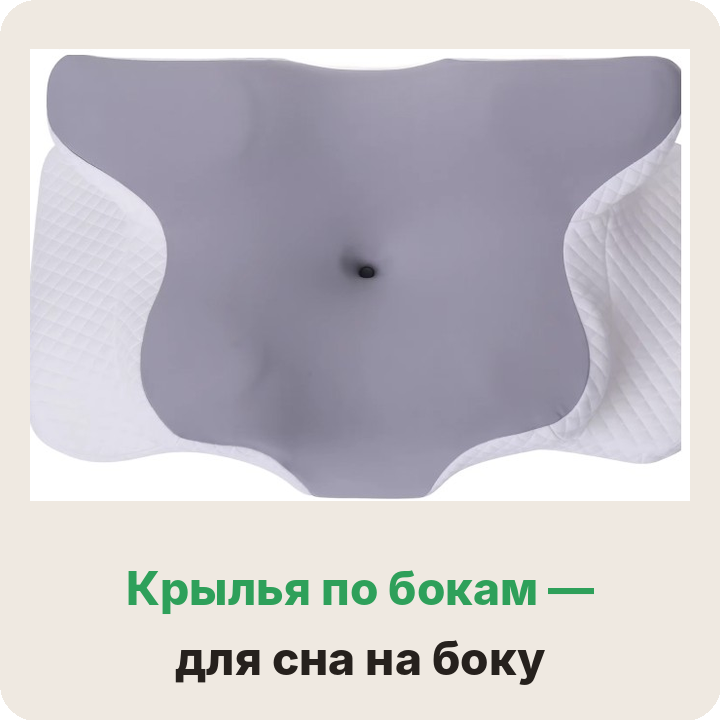
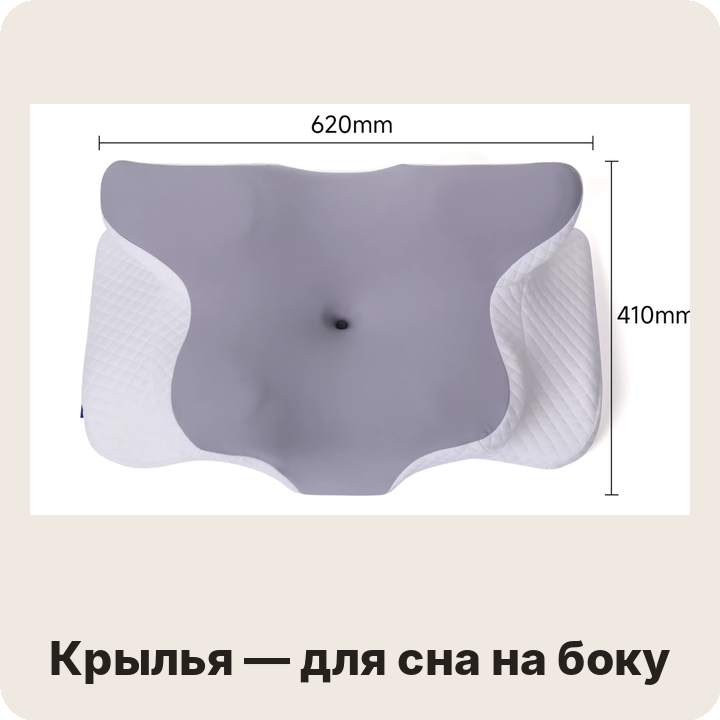
Reel greeks v3: original hook, single pose take, larger footage, cards from owner's pillow photos
Claude-Session: https://claude.ai/code/session_01JKBBHyD8hBKVpszWv2rPDb

diff --git a/brand/video/reel_greeks/build.py b/brand/video/reel_greeks/build.py
@@ -4,7 +4,7 @@ Layout: title + illustration on top, the horizontal footage in the middle, capti
 Audio: the owner's own voice, cleaned (rumble cut, denoise, compression, loudness);
 pauses inside phrases are cut and the whole reel runs at SPEED.
     python build.py RAW_DIR IMG_DIR OUT_DIR
-RAW_DIR holds v1..v5.mp4 (v5: the new hook take), IMG_DIR the illustrations named in EDL.
+RAW_DIR holds v1..v4.mp4, IMG_DIR the illustrations named in EDL.
 """
 import json
 import subprocess
@@ -12,8 +12,8 @@ import sys
 from pathlib import Path
 
 W, H = 1080, 1920
-VID_Y, VID_H = 1060, 602          # 832x464 source scaled to full width
-IMG_Y, IMG_SIZE = 300, 720
+VID_Y, VID_H = 700, 900           # the person is the main thing: 832x464 source scaled up, sides cropped
+IMG_Y, IMG_SIZE = 270, 400        # small product card between title and footage
 FONT = "/usr/share/fonts/opentype/inter/InterDisplay-Black.otf"
 CAP_FONT = "/usr/share/fonts/opentype/inter/Inter-ExtraBold.otf"
 BG = "0x16130f"
@@ -24,7 +24,7 @@ PAD, GAP = 0.12, 0.3  # keep this much around speech; pauses longer than GAP are
 # segments: (title, illustration, [(video, in, out, caption), ...])
 EDL = [
     ("НА ЧЁМ СПАЛИ\nДРЕВНИЕ ГРЕКИ?", "greek.png", [
-        (5, 3.6, 7.0, "Подушки древних греков, у которых были вот такие лица"),
+        (1, 3.05, 7.75, "Вот как спали древние греки, у которых были вот такие лица"),
         (1, 10.7, 13.75, "Это помогало им держать голову прямо"),
         (1, 15.3, 17.8, "и не перегружать шею"),
     ]),
@@ -46,15 +46,13 @@ EDL = [
     ("МОЖНО СПАТЬ\nНА СПИНЕ", "photo_bed.png", [
         (3, 8.9, 11.4, "На ортопедической подушке можно спать вот так"),
     ]),
-    ("НА БОКУ\nИ НА ЖИВОТЕ", "photo_bed.png", [
+    ("НА БОКУ\nИ НА ЖИВОТЕ", "photo_top.png", [
         (3, 20.85, 21.7, "А также можно спать"),
         (3, 26.9, 27.9, "вот так"),
         (3, 28.2, 29.9, "просунув сюда руки"),
-        (3, 35.0, 38.2, "А также вот так — и это не мешает"),
-        (3, 47.7, 50.0, "Или вот так — руки сюда"),
-        (3, 51.8, 56.5, "и вот так, руки сюда — и можно расслабленно спать"),
+        (3, 54.9, 56.5, "и можно расслабленно спать"),
     ]),
-    ("ВЫЕМКА —\nЧТОБЫ ДЫШАТЬ", "photo_table.png", [
+    ("ВЫЕМКА —\nЧТОБЫ ДЫШАТЬ", "photo_foam.png", [
         (3, 57.3, 60.4, "А эта выемка — чтобы можно было дышать"),
     ]),
     ("ЧЕХОЛ СНИМАЕТСЯ\nИ СТИРАЕТСЯ", "info_zip.png", [
@@ -66,7 +64,7 @@ EDL = [
     ("НА KASPI —\n600 ОТЗЫВОВ · 4,9", "kaspi.png", [
         (4, 37.85, 46.0, "Заказать можно на Kaspi: уже 600 отзывов и рейтинг 4,9"),
     ]),
-    ("НАПИШИ «ШЕЯ» —\nПРИШЛЮ ПРОМОКОД", "photo_table.png", [
+    ("НАПИШИ «ШЕЯ» —\nПРИШЛЮ ПРОМОКОД", "photo_stack.png", [
         (4, 80.5, 83.3, "Пишите в WhatsApp или заказывайте на Kaspi"),
     ]),
 ]
@@ -137,7 +135,7 @@ def build_part(raw, img_dir, tmp, idx, sub, title, image):
     for k, text in enumerate(parts):
         cap_filters.append(
             f"drawtext=fontfile='{CAP_FONT}':text='{esc(text)}':fontsize=60:fontcolor=white:"
-            f"box=1:boxcolor=black@0.55:boxborderw=18:x=(w-text_w)/2:y={VID_Y + VID_H + 70}:"
+            f"box=1:boxcolor=black@0.55:boxborderw=18:x=(w-text_w)/2:y={VID_Y + VID_H - 150}:"
             f"enable='between(t,{marks[k]:.3f},{marks[k + 1]:.3f})'"
         )
     title_lines = title.split("\n")
@@ -148,7 +146,7 @@ def build_part(raw, img_dir, tmp, idx, sub, title, image):
     ]
     graph = (
         f"color=c={BG}:s={W}x{H}:d={dur:.3f}:r=30[bg];"
-        f"[0:v]fps=30,select='{sel}',setpts=N/30/{SPEED}/TB,fps=30,scale={W}:{VID_H},eq=contrast=1.06:saturation=1.08[vid];"
+        f"[0:v]fps=30,select='{sel}',setpts=N/30/{SPEED}/TB,fps=30,scale=-2:{VID_H},crop={W}:{VID_H},eq=contrast=1.06:saturation=1.08[vid];"
         f"[1:v]scale={IMG_SIZE}:{IMG_SIZE}:force_original_aspect_ratio=increase,crop={IMG_SIZE}:{IMG_SIZE}[img];"
         f"[bg][img]overlay=(W-w)/2:{IMG_Y}[b1];"
         f"[b1][vid]overlay=0:{VID_Y}:eof_action=repeat[b2];"
@@ -179,7 +177,7 @@ def main():
     lst.write_text("".join(f"file '{p.resolve()}'\n" for p in parts))
     joined = out_dir / "joined.mp4"
     run(["ffmpeg", "-v", "error", "-y", "-f", "concat", "-safe", "0", "-i", str(lst), "-c", "copy", str(joined)])
-    final = out_dir / "reel_greeks_v2.mp4"
+    final = out_dir / "reel_greeks_v3.mp4"
     run(["ffmpeg", "-v", "error", "-y", "-i", str(joined), "-c:v", "copy",
          "-af", "loudnorm=I=-14:TP=-1.5:LRA=9", "-c:a", "aac", "-b:a", "192k", "-movflags", "+faststart", str(final)])
     print(json.dumps({"parts": len(parts), "seconds": round(total, 1), "out": str(final)}))

diff --git a/brand/video/reel_greeks/cards.py b/brand/video/reel_greeks/cards.py
@@ -1,7 +1,6 @@
-"""Illustration cards for the reel, built from the real pillow photos (no renders).
+"""Illustration cards for the reel, built from the owner's real pillow photos (no renders).
 
-    python cards.py brand/ataria_pillow1_reference.jpg OUT_DIR
-The reference is a 2072x2376 collage of six photos; CROPS are their boxes in it.
+    python cards.py brand/photos/pillow1 OUT_DIR
 """
 import sys
 from pathlib import Path
@@ -15,22 +14,15 @@ ACCENT = (46, 160, 90)
 FONT = "/usr/share/fonts/opentype/inter/InterDisplay-Black.otf"
 FONT_MED = "/usr/share/fonts/opentype/inter/Inter-ExtraBold.otf"
 
-CROPS = {
-    "side": (178, 345, 869, 631),
-    "top": (1202, 137, 1880, 601),
-    "table": (24, 863, 1026, 1517),
-    "bed": (1322, 809, 1779, 1571),
-    "zip": (129, 1595, 919, 2356),
-    "tag": (1170, 1595, 1930, 2356),
-}
-
-# card name: (photo, fill the square?, label lines)
+# card name: (photo, crop box or None, fill the square?, label lines)
 CARDS = {
-    "info_profile.png": ("side", False, ["Валик — под шею", "Углубление — под голову"]),
-    "info_top.png": ("top", False, ["Крылья по бокам —", "для сна на боку"]),
-    "photo_bed.png": ("bed", True, []),
-    "info_zip.png": ("zip", True, ["Чехол на молнии"]),
-    "photo_table.png": ("table", False, ["Подушка ATARIA 40×60"]),
+    "info_profile.png": ("front_view.jpg", (100, 520, 880, 800), False, ["Валик — под шею"]),
+    "info_top.png": ("top_dimensions.jpg", (0, 280, 900, 840), False, ["Крылья — для сна на боку"]),
+    "photo_bed.png": ("on_bed_hand.jpg", None, True, []),
+    "photo_foam.png": ("foam_insert.jpg", None, False, ["Внутри — пена с памятью"]),
+    "photo_top.png": ("top_grey.jpg", (0, 640, 1920, 1920), True, []),
+    "info_zip.png": ("zipper.jpg", None, True, ["Чехол на молнии"]),
+    "photo_stack.png": ("stack.jpg", None, True, []),
 }
 
 
@@ -42,8 +34,9 @@ def rounded(im, r):
     return out
 
 
-def card(src, crop, fill, lines):
-    photo = src.crop(CROPS[crop])
+def card(photo, crop, fill, lines):
+    if crop:
+        photo = photo.crop(crop)
     canvas = Image.new("RGB", (S, S), CARD)
     text_h = 70 * len(lines) + (30 if lines else 0)
     if fill:
@@ -80,11 +73,10 @@ def kaspi_card():
 
 
 def main():
-    src = Image.open(sys.argv[1]).convert("RGB")
-    out = Path(sys.argv[2])
+    photos, out = Path(sys.argv[1]), Path(sys.argv[2])
     out.mkdir(parents=True, exist_ok=True)
-    for name, (crop, fill, lines) in CARDS.items():
-        card(src, crop, fill, lines).save(out / name)
+    for name, (photo, crop, fill, lines) in CARDS.items():
+        card(Image.open(photos / photo).convert("RGB"), crop, fill, lines).save(out / name)
     kaspi_card().save(out / "kaspi.png")
 
 
